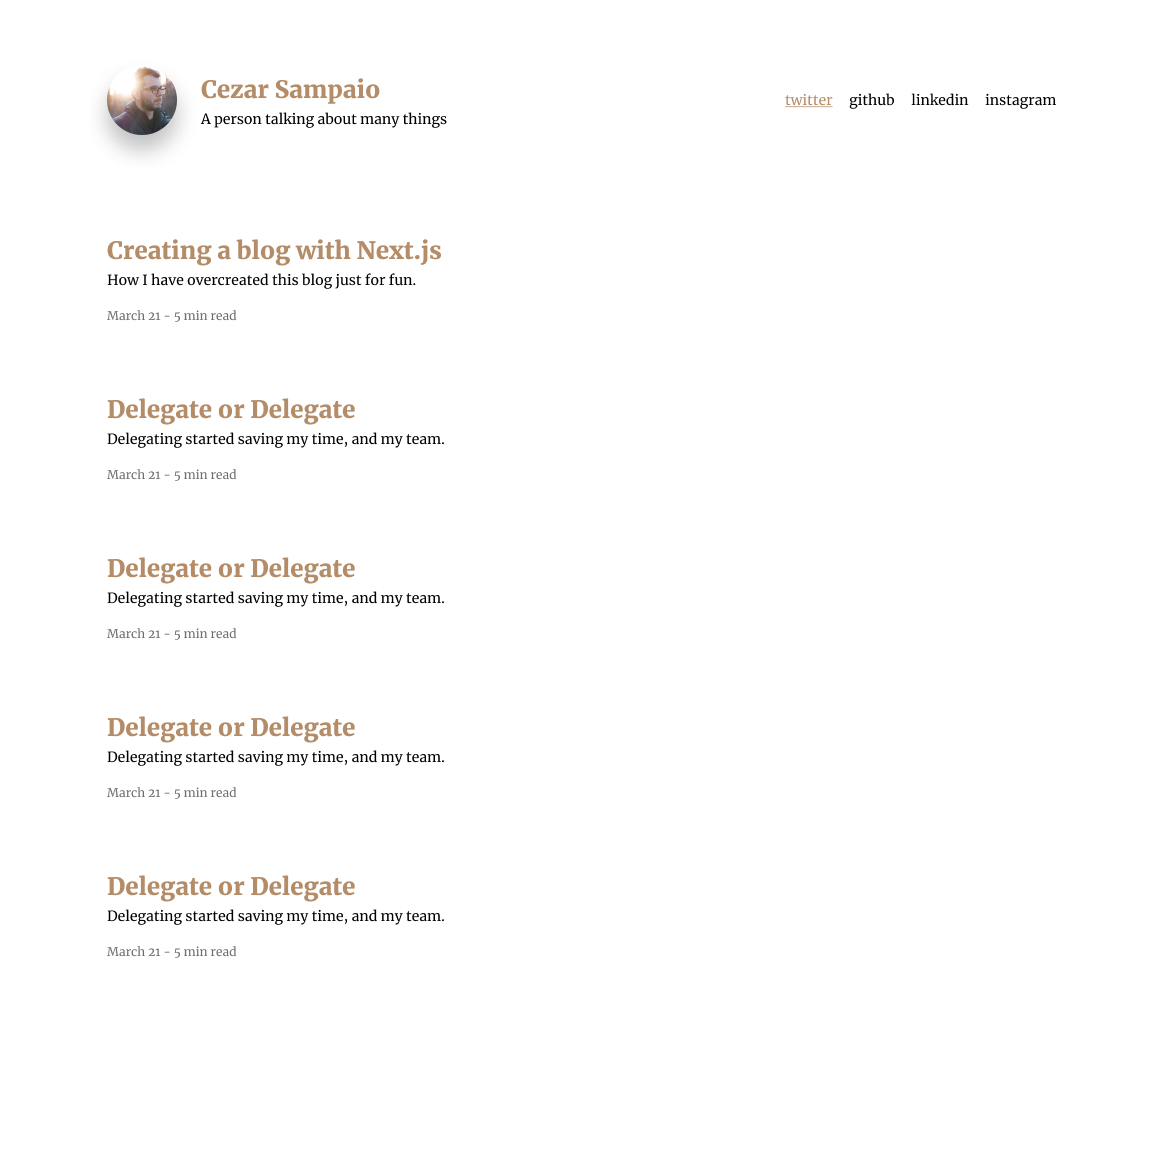
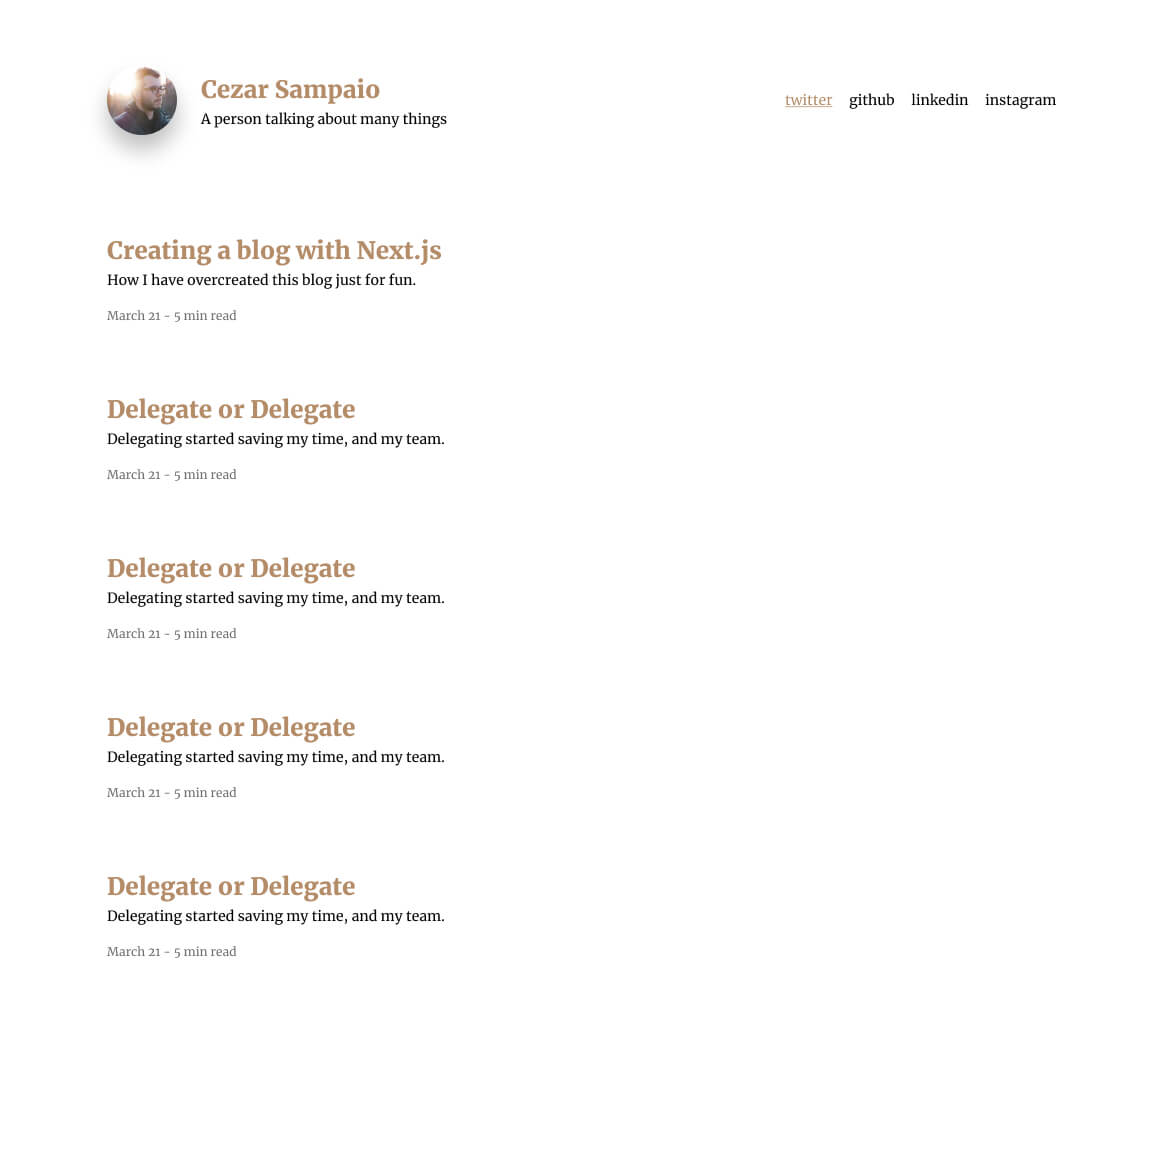
Optimizing images and updating post

Changed region(s): [[0.25, 0.6133, 0.2812, 0.644], [0.2188, 0.2147, 0.25, 0.2453], [0.125, 0.6133, 0.1562, 0.644]]

diff --git a/posts/2019-03-21-creating-a-blog-with-nextjs.md b/posts/2019-03-21-creating-a-blog-with-nextjs.md
@@ -372,7 +372,13 @@ Yes, of course! [You can check the repository](https://github.com/cezarsmpio/cez
     "tiny-frontmatter": "^1.0.0"
 },
 "devDependencies": {
-    "raw-loader": "^2.0.0"
+    "raw-loader": "^2.0.0",
+    "imagemin-gifsicle": "^6.0.1",
+    "imagemin-mozjpeg": "^8.0.0",
+    "imagemin-optipng": "^6.0.0",
+    "next-compose-plugins": "^2.1.1",
+    "next-optimized-images": "^2.4.0",
+    "@zeit/next-bundle-analyzer": "^0.1.2"
 }
 ```
 
